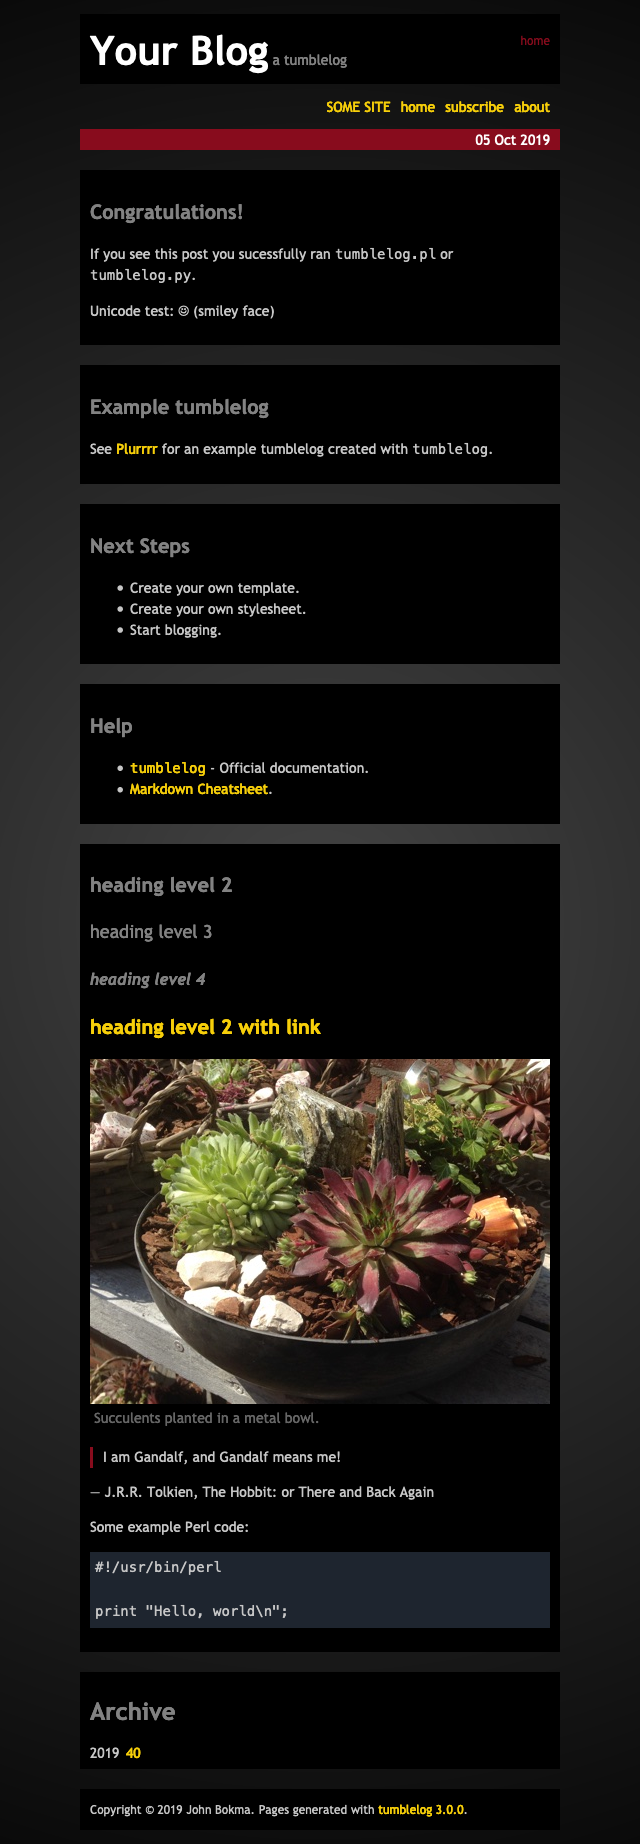
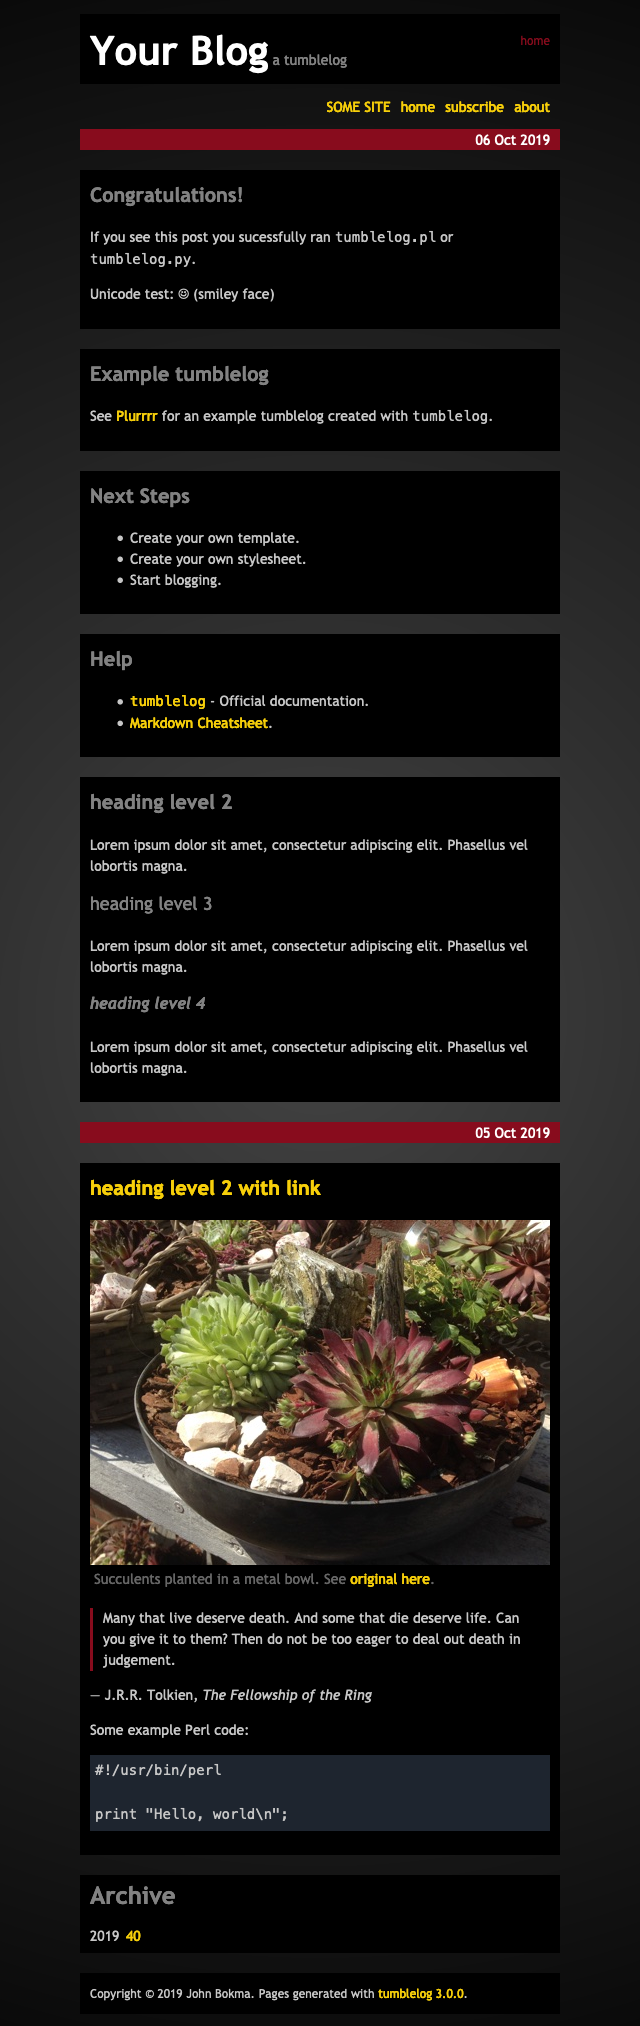
Style: remove margin from top of headings

Changed region(s): [[0.125, 0.0, 0.875, 0.9892], [0.25, 0.0, 0.2812, 0.0309]]

diff --git a/styles/floating-in-the-dark.scss b/styles/floating-in-the-dark.scss
@@ -146,3 +146,6 @@ footer {
     border: none;
 }
 
+h1, h2, h3, h4 {
+    margin-top: 0;
+}
